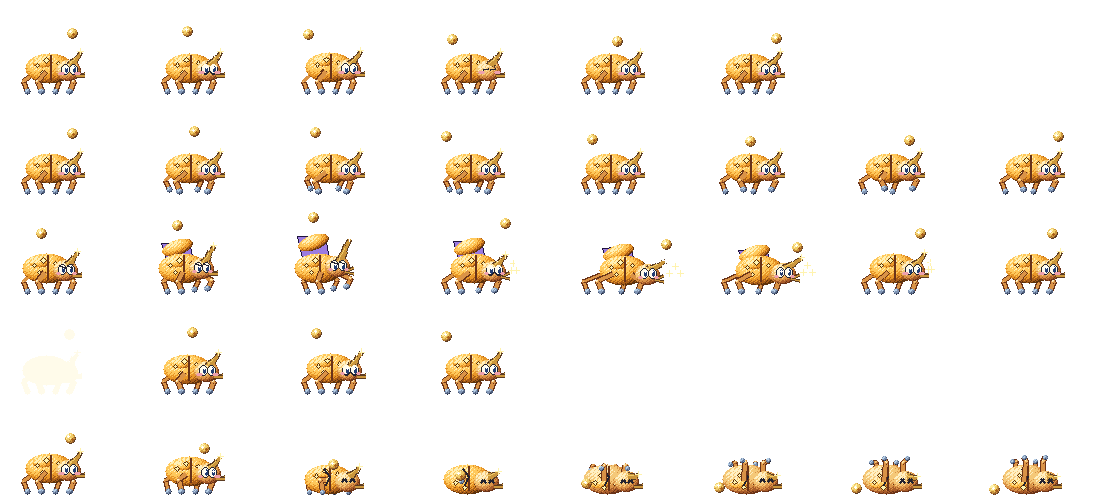
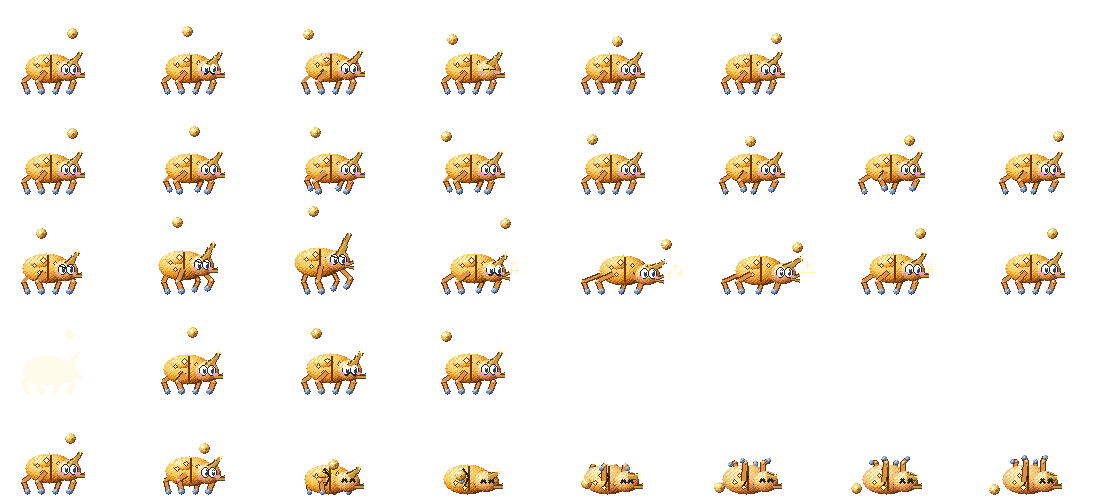
Astralhollow enemy art: remove floating wing-case popup from Orbit Beetle attack

diff --git a/scripts/astral_slime_redraw.py b/scripts/astral_slime_redraw.py
@@ -545,7 +545,7 @@ def orbitbeetle(clip, n):
     if is_atk:
         lean, wlift, hlift = BEETLE_A['lean'][n], BEETLE_A['wing'][n], BEETLE_A['horn'][n]
         reach, flip = BEETLE_A['reach'][n], 0.
-        by = 26 - (2 if n in (4, 5) else 0)
+        by = 26 + (3 if n == 1 else 6 if n == 2 else -2 if n in (4, 5) else 0)
     elif is_die:
         by, flip = BEETLE_D['by'][n], BEETLE_D['flip'][n]
         lean, wlift, hlift, reach = -flip * 3, 0., 0., 0.
@@ -611,12 +611,6 @@ def orbitbeetle(clip, n):
     for k, (fx0, hx0, far) in enumerate(leg_specs):
         if far:
             draw_beetle_leg(k, fx0, hx0, True)
-
-    # Violet under-wings and lifted bronze wing-case (elytra) during attack wind-up
-    if wlift > 1:
-        a.poly([(lean - 18, by + 6), (lean - 24, by + 18 + wlift), (lean + 4, by + 20 + wlift * .9), (lean + 8, by + 8)],
-               VIOLET[3], outline=VIOLET[0])
-        a.ball(lean - 8, by + 15 + wlift * .8, 16, 7.5, AMBER, ang=.35)
 
     # Rigid bronze-and-amber domed scarab shell (rests directly on the ground when flipped on death)
     shell_y = mix(by, 15., flip)

diff --git a/docs/astral-slime-art.md b/docs/astral-slime-art.md
@@ -8,7 +8,7 @@ Five new editable PixelFlow sprites for Zone 13 (Astralhollow) use the shared sl
 | --- | --- | --- | --- | --- | --- |
 | Void Moth (`voidmoth`) | `132×98` `(54, 92)` |Plump lavender-and-indigo nocturnal moth hovering in mid-air (`lows=64..78 <= kay-14`) with four scalloped nebula wings bearing golden crescent-and-star eyespots, feathered antennae and a hanging starlight lantern. Banks back with all four wings swept high to charge a starlight orb (`rises=12`), then swoops forward (`reach=34`) firing a volley of starlight bolts. On death, it tumbles from mid-air and folds its wings flat on the ground row (`kay=92`) as its lantern dims. | `580586199f4e6879` | `16f1579889ca68a9` | `66 / 88` |
 | Crystal Wyrm (`crystalwyrm`) | `148×100` `(60, 94)` | Low-slung azure-and-cyan crystalline drake grounded on four distinct clawed paws (`groundRuns=4`, `legTracks=4`) with faceted belly scales, magenta dorsal prism spines and horned crystal crest. Rears up as its dorsal prisms flare (`rises=14`) and lunges far forward (`reach=44`) snapping its jaws with a crystal frost-shard breath. On death, its legs splay out and it collapses flat onto its belly on row 94 as its dorsal prisms crack. | `af24bb7845f50e67` | `c4dbc00ed0a20cc4` | `68 / 60` |
-| Orbit Beetle (`orbitbeetle`) | `140×100` `(54, 94)` | Round-shelled golden-amber astral scarab grounded on four distinct claw groups (`groundRuns=4`, `legTracks=5`) with constellation-engraved elytra, a tall forked rhinoceros horn and an orbiting golden moonlet above a violet underwing. Rears its carapace high (`rises=14`) and swings its forked horn in a wide uppercut (`reach=46`) while its moonlet streaks forward in a starry arc. On death, it flips onto its back on row 94 with its legs curled upward and the moonlet resting beside it. | `dcb7647f8ef1658c` | `c779c03de017e0e6` | `69 / 70` |
+| Orbit Beetle (`orbitbeetle`) | `140×100` `(54, 94)` | Round-shelled golden-amber astral scarab grounded on four distinct claw groups (`groundRuns=4`, `legTracks=5`) with constellation-engraved elytra, a tall forked rhinoceros horn and an orbiting golden moonlet overhead. Rears its carapace high (`rises=14`) and swings its forked horn in a wide uppercut (`reach=46`) while its moonlet streaks forward in a starry arc. On death, it flips onto its back on row 94 with its legs curled upward and the moonlet resting beside it. | `dcb7647f8ef1658c` | `c779c03de017e0e6` | `69 / 70` |
 | Eclipse Dryad (`eclipsedryad`) | `132×114` `(52, 108)` | Leafy emerald-and-mossy sylvan spirit grounded on two wooden root-boots (`groundRuns=2`) in a layered leaf-petal skirt with a glowing pink blossom core, bark arms and a golden solar-eclipse halo crown. Lifts her eclipse halo high overhead (`rises=16`) and lashes a thorny vine whip far forward (`reach=43`) with bursting star-leaves. On death, her bark knees buckle, her eclipse crown dims, and she wilts into a mossy mound of leaves on row 108. | `f042853483dd824a` | `2d35cbaf0e90a3a6` | `78 / 89` |
 | Meteor Golem (`meteorgolem`) | `136×112` `(56, 106)` | Chunky slate-violet meteorite construct grounded on two stone boots (`groundRuns=2`) with a glowing orange-and-violet core fissure, purple shoulder crystals, cratered stone fists and orbiting asteroid pebbles. Hoists both meteorite fists high overhead (`rises=19`) and slams them into the ground (`reach=33`) with an impact shockwave of flying shards. On death, its core goes dark and its meteorite boulders crack apart into a low rubble pile on row 106. | `20f02bb4828b9527` | `3b03b821e34145c5` | `74 / 79` |
 
